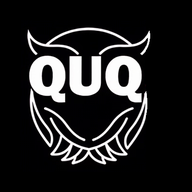
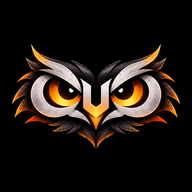
Yeni QUQUMAV baykuş logosu; Sledge Smash bilgileri 1.1.0'a göre güncellendi
- Üst menü logosu, favicon, apple-touch-icon, 192 px ikon ve Play Console
  geliştirici ikonu/kapak görseli yeni turuncu-gümüş baykuş logosuyla değişti
- Sledge Smash kartı (TR + EN): 1000 bölüm, 9 sürpriz blok, 20 araç ve
  20 balyoz, hamle sınırı olmayan dev şehir

Claude-Session: https://claude.ai/code/session_01HwrWhnTaheD45bjGT6mDCK

Changed region(s): [[0.0625, 0.125, 0.9375, 0.875]]

diff --git a/en/index.html b/en/index.html
@@ -13,7 +13,7 @@
 </head>
 <body>
 <header class="top"><div class="wrap">
-<a class="brand" href="../en/index.html"><img src="../img/logo.png" alt="QUQUMAV" width="90" height="48"></a>
+<a class="brand" href="../en/index.html"><img src="../img/logo.png" alt="QUQUMAV" width="148" height="60"></a>
 <nav><a href="../en/index.html#games">Games</a><a href="../gizlilik/index.html#en">Privacy</a><a href="../index.html" lang="tr">TR</a></nav>
 </div></header>
 <main class="wrap">
@@ -49,7 +49,7 @@
 <div class="info">
 <h3>Sledge Smash</h3>
 <p class="genre">Puzzle · Demolition</p>
-<p>Drive your wrecker, line up the perfect angle and take down whole rows in one hit. Exploding barrels, MEGA hits and new structures every level.</p>
+<p>Drive your excavator, bring the sledgehammer down at the right angle and level the building in limited moves. 1000 levels, 9 surprise blocks, 20 machines and 20 hammers, plus a giant city with no move limit.</p>
 <p class="meta"><span>iOS</span><span>Android</span><span>TR · EN · ES · PT · DE · FR · IT · ID</span></p>
 <a class="link" href="../gizlilik/sledge-smash.html#en">Privacy policy →</a>
 </div>

diff --git a/index.html b/index.html
@@ -13,7 +13,7 @@
 </head>
 <body>
 <header class="top"><div class="wrap">
-<a class="brand" href="index.html"><img src="img/logo.png" alt="QUQUMAV" width="90" height="48"></a>
+<a class="brand" href="index.html"><img src="img/logo.png" alt="QUQUMAV" width="148" height="60"></a>
 <nav><a href="index.html#oyunlar">Oyunlar</a><a href="gizlilik/index.html">Gizlilik</a><a href="en/index.html" lang="en">EN</a></nav>
 </div></header>
 <main class="wrap">
@@ -49,7 +49,7 @@
 <div class="info">
 <h3>Sledge Smash</h3>
 <p class="genre">Bulmaca · Yıkım</p>
-<p>Yıkım aracını doğru açıyla sür, duvarları boylamasına vur, tek darbede bütün sırayı indir. Patlayan variller, mega darbeler ve her bölümde yeni yapılar.</p>
+<p>Kepçeni sür, balyozu doğru açıyla indir ve binayı sınırlı hamlede yerle bir et. 1000 bölüm, 9 sürpriz blok, 20 araç ve 20 balyoz; bir de hamle sınırı olmayan dev bir şehir.</p>
 <p class="meta"><span>iOS</span><span>Android</span><span>TR · EN · ES · PT · DE · FR · IT · ID</span></p>
 <a class="link" href="gizlilik/sledge-smash.html">Gizlilik politikası →</a>
 </div>

diff --git a/gizlilik/block-core.html b/gizlilik/block-core.html
@@ -13,7 +13,7 @@
 </head>
 <body>
 <header class="top"><div class="wrap">
-<a class="brand" href="../index.html"><img src="../img/logo.png" alt="QUQUMAV" width="90" height="48"></a>
+<a class="brand" href="../index.html"><img src="../img/logo.png" alt="QUQUMAV" width="148" height="60"></a>
 <nav><a href="../index.html#oyunlar">Oyunlar</a><a href="../gizlilik/index.html">Gizlilik</a><a href="../en/index.html" lang="en">EN</a></nav>
 </div></header>
 <main class="wrap">

diff --git a/gizlilik/index.html b/gizlilik/index.html
@@ -13,7 +13,7 @@
 </head>
 <body>
 <header class="top"><div class="wrap">
-<a class="brand" href="../index.html"><img src="../img/logo.png" alt="QUQUMAV" width="90" height="48"></a>
+<a class="brand" href="../index.html"><img src="../img/logo.png" alt="QUQUMAV" width="148" height="60"></a>
 <nav><a href="../index.html#oyunlar">Oyunlar</a><a href="../gizlilik/index.html">Gizlilik</a><a href="../en/index.html" lang="en">EN</a></nav>
 </div></header>
 <main class="wrap">

diff --git a/gizlilik/kizil-zambak.html b/gizlilik/kizil-zambak.html
@@ -13,7 +13,7 @@
 </head>
 <body>
 <header class="top"><div class="wrap">
-<a class="brand" href="../index.html"><img src="../img/logo.png" alt="QUQUMAV" width="90" height="48"></a>
+<a class="brand" href="../index.html"><img src="../img/logo.png" alt="QUQUMAV" width="148" height="60"></a>
 <nav><a href="../index.html#oyunlar">Oyunlar</a><a href="../gizlilik/index.html">Gizlilik</a><a href="../en/index.html" lang="en">EN</a></nav>
 </div></header>
 <main class="wrap">

diff --git a/gizlilik/oyuncak-atolyesi.html b/gizlilik/oyuncak-atolyesi.html
@@ -13,7 +13,7 @@
 </head>
 <body>
 <header class="top"><div class="wrap">
-<a class="brand" href="../index.html"><img src="../img/logo.png" alt="QUQUMAV" width="90" height="48"></a>
+<a class="brand" href="../index.html"><img src="../img/logo.png" alt="QUQUMAV" width="148" height="60"></a>
 <nav><a href="../index.html#oyunlar">Oyunlar</a><a href="../gizlilik/index.html">Gizlilik</a><a href="../en/index.html" lang="en">EN</a></nav>
 </div></header>
 <main class="wrap">

diff --git a/gizlilik/sledge-smash.html b/gizlilik/sledge-smash.html
@@ -13,7 +13,7 @@
 </head>
 <body>
 <header class="top"><div class="wrap">
-<a class="brand" href="../index.html"><img src="../img/logo.png" alt="QUQUMAV" width="90" height="48"></a>
+<a class="brand" href="../index.html"><img src="../img/logo.png" alt="QUQUMAV" width="148" height="60"></a>
 <nav><a href="../index.html#oyunlar">Oyunlar</a><a href="../gizlilik/index.html">Gizlilik</a><a href="../en/index.html" lang="en">EN</a></nav>
 </div></header>
 <main class="wrap">

diff --git a/gizlilik/yeniceri.html b/gizlilik/yeniceri.html
@@ -13,7 +13,7 @@
 </head>
 <body>
 <header class="top"><div class="wrap">
-<a class="brand" href="../index.html"><img src="../img/logo.png" alt="QUQUMAV" width="90" height="48"></a>
+<a class="brand" href="../index.html"><img src="../img/logo.png" alt="QUQUMAV" width="148" height="60"></a>
 <nav><a href="../index.html#oyunlar">Oyunlar</a><a href="../gizlilik/index.html">Gizlilik</a><a href="../en/index.html" lang="en">EN</a></nav>
 </div></header>
 <main class="wrap">
